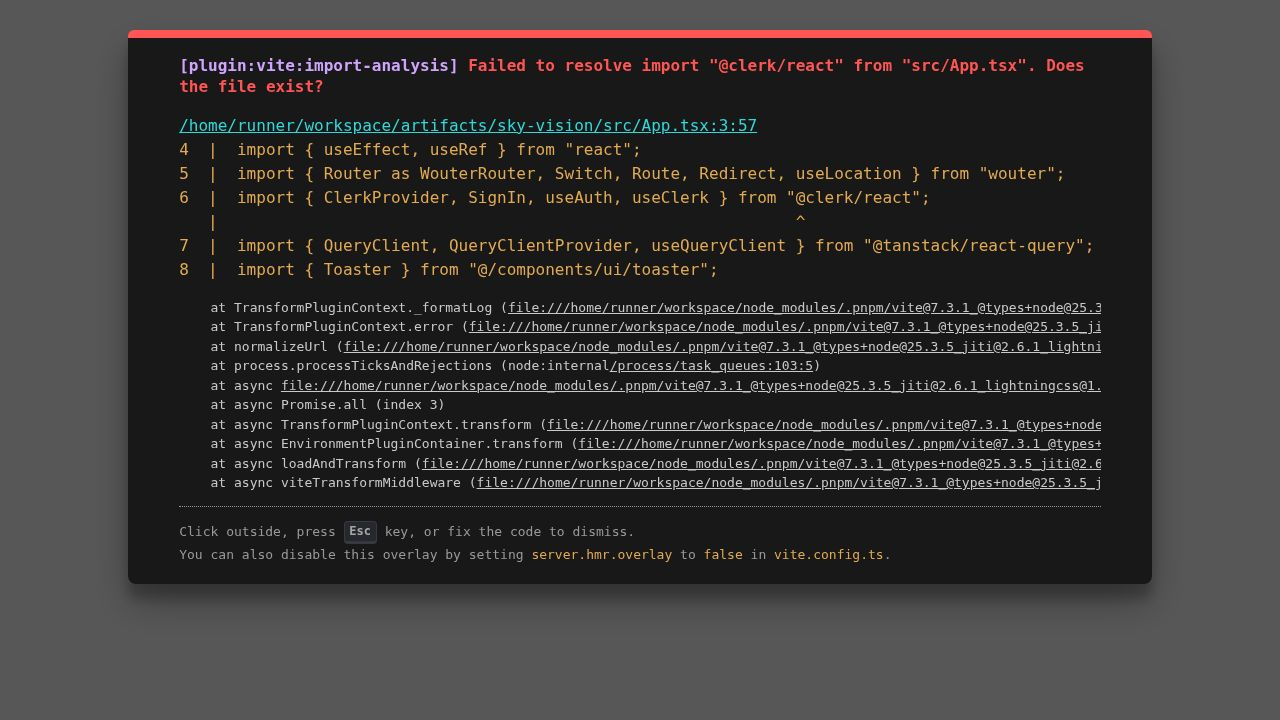
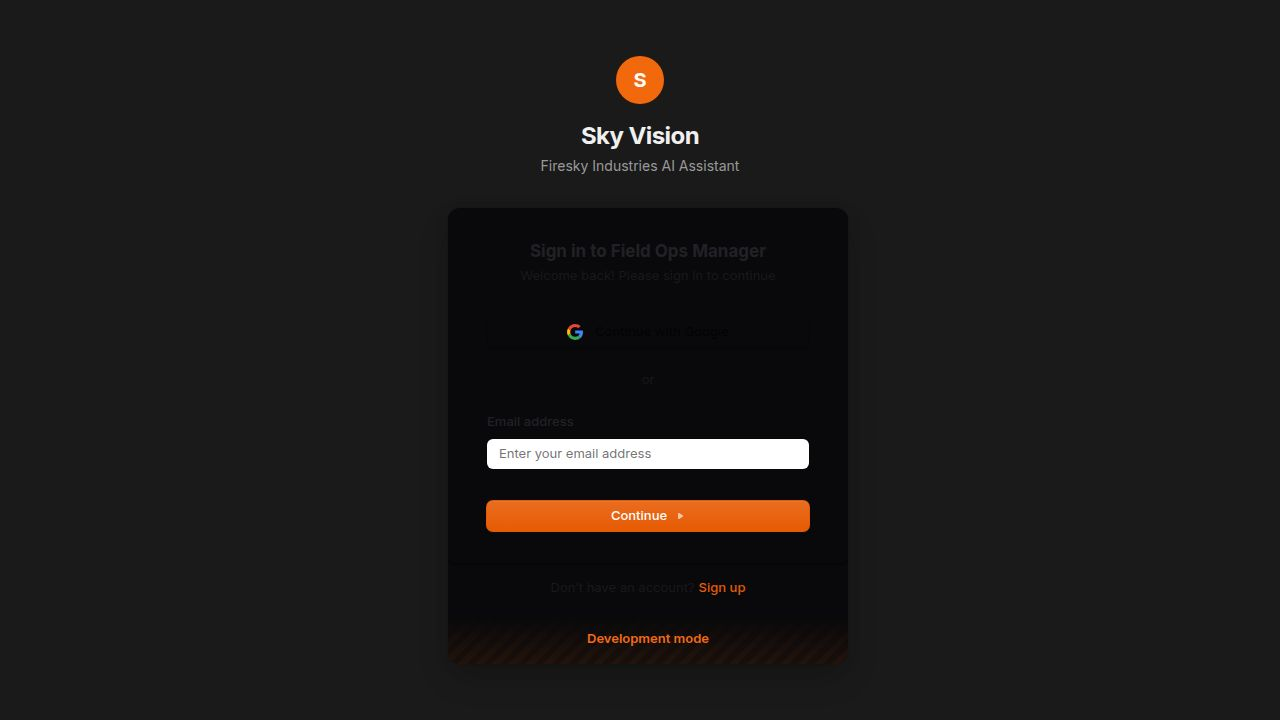
Update app's appearance and fix messaging bugs
Adjust CSS variables for a matching dark theme and refactor the chat hook to resolve a message sending race condition.

Replit-Commit-Author: Agent
Replit-Commit-Session-Id: 564a437c-d40e-47c5-9379-e3a82fe89b3f
Replit-Commit-Checkpoint-Type: full_checkpoint
Replit-Commit-Event-Id: ee2060e7-f791-4845-89c3-47b4eb826c65
Replit-Commit-Screenshot-Url: https://storage.googleapis.com/screenshot-production-us-central1/8ecb1f4e-ef9e-4071-ac41-fe2eaf8e0001/564a437c-d40e-47c5-9379-e3a82fe89b3f/nNEWwNG
Replit-Helium-Checkpoint-Created: true

diff --git a/artifacts/sky-vision/src/index.css b/artifacts/sky-vision/src/index.css
@@ -66,150 +66,143 @@
   --radius-xl: calc(var(--radius) + 4px);
 }
 
-/* LIGHT MODE */
+/* Dark grey theme — matches Firesky Ops */
 :root {
-  --button-outline: rgba(0,0,0, .10);
-  --badge-outline: rgba(0,0,0, .05);
-  --opaque-button-border-intensity: -8;
-  --elevate-1: rgba(0,0,0, .03);
-  --elevate-2: rgba(0,0,0, .08);
-
-  --background: 0 0% 98%;
-  --foreground: 240 10% 4%;
-  --border: 240 6% 90%;
-  --card: 0 0% 100%;
-  --card-foreground: 240 10% 4%;
-  --card-border: 240 6% 90%;
-  --sidebar: 240 5% 96%;
-  --sidebar-foreground: 240 10% 4%;
-  --sidebar-border: 240 6% 90%;
-  --sidebar-primary: 23 97% 46%;
-  --sidebar-primary-foreground: 0 0% 98%;
-  --sidebar-accent: 240 5% 92%;
-  --sidebar-accent-foreground: 240 10% 4%;
-  --sidebar-ring: 23 97% 46%;
-  --popover: 0 0% 100%;
-  --popover-foreground: 240 10% 4%;
-  --popover-border: 240 6% 90%;
-  --primary: 23 97% 46%;
-  --primary-foreground: 0 0% 98%;
-  --secondary: 240 5% 94%;
-  --secondary-foreground: 240 10% 4%;
-  --muted: 240 5% 94%;
-  --muted-foreground: 240 4% 46%;
-  --accent: 240 5% 92%;
-  --accent-foreground: 240 10% 4%;
-  --destructive: 0 72% 51%;
-  --destructive-foreground: 0 0% 98%;
-  --input: 240 6% 90%;
-  --ring: 23 97% 46%;
-  --chart-1: 23 97% 46%;
-  --chart-2: 173 58% 39%;
-  --chart-3: 197 37% 24%;
-  --chart-4: 43 74% 66%;
-  --chart-5: 27 87% 67%;
-
-  --app-font-sans: 'Inter', sans-serif;
-  --app-font-serif: Georgia, serif;
-  --app-font-mono: Menlo, monospace;
-  --radius: .5rem;
-  --shadow-2xs: 0px 1px 2px 0px rgba(0,0,0,.05);
-  --shadow-xs: 0px 1px 3px 0px rgba(0,0,0,.07);
-  --shadow-sm: 0px 1px 3px 0px rgba(0,0,0,.07), 0px 1px 2px -1px rgba(0,0,0,.07);
-  --shadow: 0px 2px 4px 0px rgba(0,0,0,.07), 0px 1px 2px -1px rgba(0,0,0,.07);
-  --shadow-md: 0px 4px 6px -1px rgba(0,0,0,.07), 0px 2px 4px -2px rgba(0,0,0,.07);
-  --shadow-lg: 0px 10px 15px -3px rgba(0,0,0,.07), 0px 4px 6px -4px rgba(0,0,0,.07);
-  --shadow-xl: 0px 20px 25px -5px rgba(0,0,0,.07), 0px 8px 10px -6px rgba(0,0,0,.07);
-  --shadow-2xl: 0px 25px 50px -12px rgba(0,0,0,.25);
-  --tracking-normal: 0em;
-  --spacing: 0.25rem;
-
-  --sidebar-primary-border: hsl(var(--sidebar-primary));
-  --sidebar-primary-border: hsl(from hsl(var(--sidebar-primary)) h s calc(l + var(--opaque-button-border-intensity)) / alpha);
-  --sidebar-accent-border: hsl(var(--sidebar-accent));
-  --sidebar-accent-border: hsl(from hsl(var(--sidebar-accent)) h s calc(l + var(--opaque-button-border-intensity)) / alpha);
-  --primary-border: hsl(var(--primary));
-  --primary-border: hsl(from hsl(var(--primary)) h s calc(l + var(--opaque-button-border-intensity)) / alpha);
-  --secondary-border: hsl(var(--secondary));
-  --secondary-border: hsl(from hsl(var(--secondary)) h s calc(l + var(--opaque-button-border-intensity)) / alpha);
-  --muted-border: hsl(var(--muted));
-  --muted-border: hsl(from hsl(var(--muted)) h s calc(l + var(--opaque-button-border-intensity)) / alpha);
-  --accent-border: hsl(var(--accent));
-  --accent-border: hsl(from hsl(var(--accent)) h s calc(l + var(--opaque-button-border-intensity)) / alpha);
-  --destructive-border: hsl(var(--destructive));
-  --destructive-border: hsl(from hsl(var(--destructive)) h s calc(l + var(--opaque-button-border-intensity)) / alpha);
-}
-
-/* DARK MODE — always active (App.tsx adds .dark to <html>) */
-.dark {
-  --button-outline: rgba(255,255,255, .10);
-  --badge-outline: rgba(255,255,255, .05);
+  --button-outline: rgba(255,255,255, .12);
+  --badge-outline: rgba(255,255,255, .06);
   --opaque-button-border-intensity: 9;
   --elevate-1: rgba(255,255,255, .04);
   --elevate-2: rgba(255,255,255, .09);
 
-  /* Deep dark backgrounds */
-  --background: 240 10% 3.9%;
-  --foreground: 0 0% 98%;
-  --border: 240 6% 20%;
+  --background: 0 0% 12%;
+  --foreground: 0 0% 94%;
+  --border: 0 0% 24%;
+  --card: 0 0% 18%;
+  --card-foreground: 0 0% 94%;
+  --card-border: 0 0% 25%;
 
-  /* Cards slightly lighter than background */
-  --card: 240 10% 6.5%;
-  --card-foreground: 0 0% 98%;
-  --card-border: 240 6% 18%;
+  --sidebar: 0 0% 15%;
+  --sidebar-foreground: 0 0% 94%;
+  --sidebar-border: 0 0% 22%;
+  --sidebar-primary: 24 90% 50%;
+  --sidebar-primary-foreground: 0 0% 100%;
+  --sidebar-accent: 0 0% 22%;
+  --sidebar-accent-foreground: 0 0% 94%;
+  --sidebar-ring: 24 90% 50%;
 
-  /* Sidebar even darker strip */
-  --sidebar: 240 10% 3%;
-  --sidebar-foreground: 0 0% 98%;
-  --sidebar-border: 240 6% 16%;
-  --sidebar-primary: 23 97% 46%;
-  --sidebar-primary-foreground: 0 0% 98%;
-  --sidebar-accent: 240 4% 14%;
-  --sidebar-accent-foreground: 0 0% 98%;
-  --sidebar-ring: 23 97% 46%;
+  --popover: 0 0% 18%;
+  --popover-foreground: 0 0% 94%;
+  --popover-border: 0 0% 25%;
 
-  /* Popover */
-  --popover: 240 10% 6.5%;
-  --popover-foreground: 0 0% 98%;
-  --popover-border: 240 6% 18%;
+  --primary: 24 90% 50%;
+  --primary-foreground: 0 0% 100%;
 
-  /* Firesky orange as primary */
-  --primary: 23 97% 46%;
-  --primary-foreground: 0 0% 98%;
+  --secondary: 150 10% 22%;
+  --secondary-foreground: 0 0% 100%;
 
-  /* Neutral dark for secondary/muted */
-  --secondary: 240 4% 14%;
-  --secondary-foreground: 0 0% 98%;
-  --muted: 240 4% 14%;
-  --muted-foreground: 240 5% 64.9%;
+  --muted: 0 0% 22%;
+  --muted-foreground: 0 0% 62%;
 
-  /* Accent for hover states */
-  --accent: 240 4% 16%;
-  --accent-foreground: 0 0% 98%;
+  --accent: 0 0% 26%;
+  --accent-foreground: 0 0% 94%;
 
-  /* Destructive */
-  --destructive: 0 72% 51%;
-  --destructive-foreground: 0 0% 98%;
+  --destructive: 0 62% 42%;
+  --destructive-foreground: 0 0% 100%;
 
-  /* Input border — visible on dark cards */
-  --input: 240 4% 22%;
-  --ring: 23 97% 46%;
+  --input: 0 0% 28%;
+  --ring: 24 90% 50%;
 
-  /* Chart colours */
-  --chart-1: 23 97% 46%;
-  --chart-2: 173 58% 39%;
-  --chart-3: 197 37% 24%;
-  --chart-4: 43 74% 66%;
-  --chart-5: 27 87% 67%;
+  --chart-1: 24 90% 50%;
+  --chart-2: 150 10% 20%;
+  --chart-3: 45 90% 50%;
+  --chart-4: 200 80% 40%;
+  --chart-5: 280 60% 50%;
 
-  --shadow-2xs: 0px 2px 4px 0px rgba(0,0,0,.40);
-  --shadow-xs: 0px 2px 6px 0px rgba(0,0,0,.45);
-  --shadow-sm: 0px 2px 6px 0px rgba(0,0,0,.45), 0px 1px 2px -1px rgba(0,0,0,.40);
-  --shadow: 0px 2px 6px 0px rgba(0,0,0,.45), 0px 1px 2px -1px rgba(0,0,0,.40);
-  --shadow-md: 0px 4px 8px -1px rgba(0,0,0,.45), 0px 2px 4px -2px rgba(0,0,0,.40);
-  --shadow-lg: 0px 10px 16px -3px rgba(0,0,0,.45), 0px 4px 6px -4px rgba(0,0,0,.40);
-  --shadow-xl: 0px 20px 28px -5px rgba(0,0,0,.45), 0px 8px 10px -6px rgba(0,0,0,.40);
-  --shadow-2xl: 0px 25px 50px -12px rgba(0,0,0,.60);
+  --app-font-sans: 'Inter', sans-serif;
+  --app-font-serif: Georgia, serif;
+  --app-font-mono: Menlo, monospace;
+  --radius: 0.375rem;
+  --shadow-2xs: 0px 2px 0px 0px hsl(0 0% 0% / 0.2);
+  --shadow-xs: 0px 2px 0px 0px hsl(0 0% 0% / 0.2);
+  --shadow-sm: 0px 2px 0px 0px hsl(0 0% 0% / 0.2), 0px 1px 2px -1px hsl(0 0% 0% / 0.2);
+  --shadow: 0px 2px 0px 0px hsl(0 0% 0% / 0.2), 0px 1px 2px -1px hsl(0 0% 0% / 0.2);
+  --shadow-md: 0px 2px 0px 0px hsl(0 0% 0% / 0.2), 0px 2px 4px -1px hsl(0 0% 0% / 0.2);
+  --shadow-lg: 0px 2px 0px 0px hsl(0 0% 0% / 0.2), 0px 4px 6px -1px hsl(0 0% 0% / 0.2);
+  --shadow-xl: 0px 2px 0px 0px hsl(0 0% 0% / 0.2), 0px 8px 10px -1px hsl(0 0% 0% / 0.2);
+  --shadow-2xl: 0px 2px 0px 0px hsl(0 0% 0% / 0.2);
+  --tracking-normal: 0em;
+  --spacing: 0.25rem;
+
+  --sidebar-primary-border: hsl(from hsl(var(--sidebar-primary)) h s calc(l + var(--opaque-button-border-intensity)) / alpha);
+  --sidebar-accent-border: hsl(from hsl(var(--sidebar-accent)) h s calc(l + var(--opaque-button-border-intensity)) / alpha);
+  --primary-border: hsl(from hsl(var(--primary)) h s calc(l + var(--opaque-button-border-intensity)) / alpha);
+  --secondary-border: hsl(from hsl(var(--secondary)) h s calc(l + var(--opaque-button-border-intensity)) / alpha);
+  --muted-border: hsl(from hsl(var(--muted)) h s calc(l + var(--opaque-button-border-intensity)) / alpha);
+  --accent-border: hsl(from hsl(var(--accent)) h s calc(l + var(--opaque-button-border-intensity)) / alpha);
+  --destructive-border: hsl(from hsl(var(--destructive)) h s calc(l + var(--opaque-button-border-intensity)) / alpha);
+}
+
+/* DARK MODE — always active (App.tsx adds .dark to <html>) — matches Firesky Ops dark */
+.dark {
+  --button-outline: rgba(255,255,255, .12);
+  --badge-outline: rgba(255,255,255, .06);
+  --opaque-button-border-intensity: 9;
+  --elevate-1: rgba(255,255,255, .04);
+  --elevate-2: rgba(255,255,255, .09);
+
+  --background: 0 0% 10%;
+  --foreground: 0 0% 94%;
+  --border: 0 0% 22%;
+
+  --card: 0 0% 16%;
+  --card-foreground: 0 0% 94%;
+  --card-border: 0 0% 23%;
+
+  --sidebar: 0 0% 13%;
+  --sidebar-foreground: 0 0% 94%;
+  --sidebar-border: 0 0% 20%;
+  --sidebar-primary: 24 90% 50%;
+  --sidebar-primary-foreground: 0 0% 100%;
+  --sidebar-accent: 0 0% 20%;
+  --sidebar-accent-foreground: 0 0% 94%;
+  --sidebar-ring: 24 90% 50%;
+
+  --popover: 0 0% 16%;
+  --popover-foreground: 0 0% 94%;
+  --popover-border: 0 0% 23%;
+
+  --primary: 24 90% 50%;
+  --primary-foreground: 0 0% 100%;
+
+  --secondary: 150 10% 22%;
+  --secondary-foreground: 0 0% 100%;
+
+  --muted: 0 0% 20%;
+  --muted-foreground: 0 0% 60%;
+
+  --accent: 0 0% 24%;
+  --accent-foreground: 0 0% 94%;
+
+  --destructive: 0 62% 40%;
+  --destructive-foreground: 0 0% 100%;
+
+  --input: 0 0% 26%;
+  --ring: 24 90% 50%;
+
+  --chart-1: 24 90% 50%;
+  --chart-2: 150 10% 20%;
+  --chart-3: 45 90% 50%;
+  --chart-4: 200 80% 40%;
+  --chart-5: 280 60% 50%;
+
+  --shadow-2xs: 0px 2px 0px 0px hsl(0 0% 0% / 0.2);
+  --shadow-xs: 0px 2px 0px 0px hsl(0 0% 0% / 0.2);
+  --shadow-sm: 0px 2px 0px 0px hsl(0 0% 0% / 0.2), 0px 1px 2px -1px hsl(0 0% 0% / 0.2);
+  --shadow: 0px 2px 0px 0px hsl(0 0% 0% / 0.2), 0px 1px 2px -1px hsl(0 0% 0% / 0.2);
+  --shadow-md: 0px 2px 0px 0px hsl(0 0% 0% / 0.2), 0px 2px 4px -1px hsl(0 0% 0% / 0.2);
+  --shadow-lg: 0px 2px 0px 0px hsl(0 0% 0% / 0.2), 0px 4px 6px -1px hsl(0 0% 0% / 0.2);
+  --shadow-xl: 0px 2px 0px 0px hsl(0 0% 0% / 0.2), 0px 8px 10px -1px hsl(0 0% 0% / 0.2);
+  --shadow-2xl: 0px 2px 0px 0px hsl(0 0% 0% / 0.2);
 }
 
 @layer base {

diff --git a/artifacts/sky-vision/src/hooks/use-chat.ts b/artifacts/sky-vision/src/hooks/use-chat.ts
@@ -1,4 +1,4 @@
-import { useState, useCallback } from "react";
+import { useState, useCallback, useRef, useEffect } from "react";
 import { useQueryClient } from "@tanstack/react-query";
 import { useToast } from "@/hooks/use-toast";
 
@@ -14,9 +14,12 @@ export function useChat(conversationId: string | null) {
   });
   const queryClient = useQueryClient();
   const { toast } = useToast();
+  const conversationIdRef = useRef(conversationId);
+  useEffect(() => { conversationIdRef.current = conversationId; }, [conversationId]);
 
   const sendMessage = useCallback(
-    async (message: string) => {
+    async (message: string, overrideConversationId?: string) => {
+      const conversationId = overrideConversationId || conversationIdRef.current;
       if (!conversationId) return;
 
       setStreamState({ isStreaming: true, streamingMessage: "" });
@@ -77,7 +80,7 @@ export function useChat(conversationId: string | null) {
         queryClient.invalidateQueries({ queryKey: ["conversations", conversationId] });
       }
     },
-    [conversationId, queryClient, toast]
+    [queryClient, toast]
   );
 
   return { sendMessage, ...streamState };

diff --git a/artifacts/sky-vision/src/pages/chat.tsx b/artifacts/sky-vision/src/pages/chat.tsx
@@ -49,14 +49,7 @@ export function ChatPage() {
     }
 
     setInput("");
-    
-    // Wait for state to settle before sending if we just created it
-    // In a real app we'd await the setState or pass it down, but the hook grabs activeId.
-    // For simplicity, we pass the id directly to a slightly modified hook, but since useChat 
-    // depends on activeId, it might miss the immediate update. We'll do a slight timeout.
-    setTimeout(() => {
-      sendMessage(text);
-    }, 50);
+    sendMessage(text, targetId);
   };
 
   const handleKeyDown = (e: React.KeyboardEvent) => {